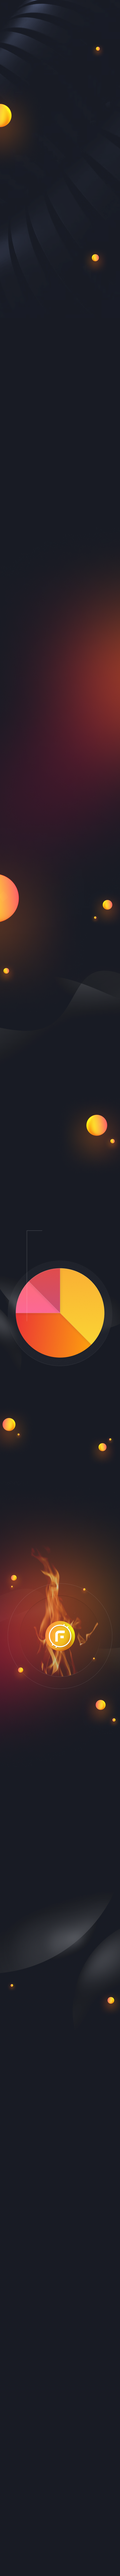
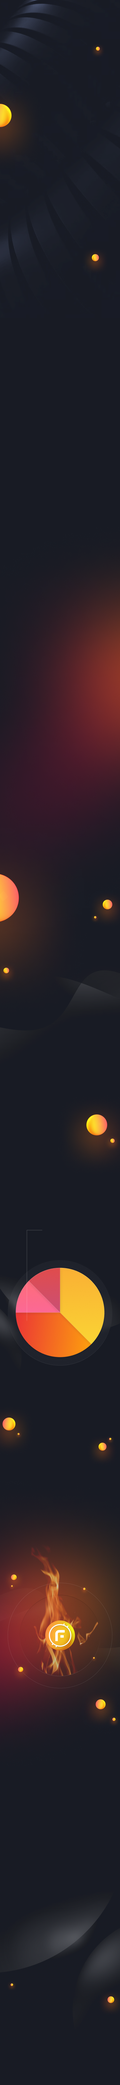
tokenomicsSmartphone

diff --git a/src/pages/tokenomicsSmart.js b/src/pages/tokenomicsSmart.js
@@ -16,52 +16,55 @@ import Back from "../images/tokenomics/tokenomicsSmartBG.png";
 
 const Section = styled.div`
     width: 100vw;
-    height: 8750px;
+    height: 6900px;
     display: flex;
     flex-direction: column;
     align-items: center;
     background: url(${Back});
-    background-size: contain;
+    background-size: cover;
     background-repeat: no-repeat;
     background-position: top center;
 `;
 
+const Wrapper = styled.div`
+    width: 100%;
+    height: 600px;
+    border: 1px solid white;
+    display: flex;
+    flex-direction: column;
+    align-items: center;
+`;
+
 const Empty = styled.div`
     width: 100%;
-    height: 10vh;
+    height: 100px;
 `;
 
 const Text = styled.div`
     width: 90%;
-    height: 20vh;
+    height: 100px;
     display: flex;
     align-items: center;
-    line-height: 70px;
-    h1{
-        font-size: 58px;
-        color: white;
-        font-weight: 500;
-    }
+    font-size: 52px;
+    color: white;
+    font-weight: 500;
 `;
 
 const Desc = styled.div`
-    width: 70%;
-    height: 30vh;
+    width: 80%;
+    height: 150px;
     display: flex;
     align-items: center;
     justify-content: center;
-    h1{
-        color: white;
-        font-size: 20px;
-        line-height: 30px;
-        font-weight: 300;
-        transform: translate(5%, 0);
-    }
+    color: white;
+    font-size: 18px;
+    line-height: 25px;
+    font-weight: 300;
 `;
 
 const Buttons = styled.div`
     width: 80%;
-    height: 30vh;
+    height: 225px;
     display: flex;
     flex-direction: column;
     align-items: center;
@@ -89,14 +92,16 @@ const TokenomicsSmart = () => {
     return(
         <Section>
             <TokenomicsSmartNavBar />
+            <Wrapper>
             <Empty />
-            <Text><h1>FORT'nomics</h1></Text>
-            <Desc><h1>Amet a volutpat donec nisl, in turpis ridiculus tristique. Sed magna massa, cum scelerisque. Dolor sit abetus achtum dolastro umago dobak lumbro sol abestro.</h1></Desc>
+            <Text>FORT'nomics</Text>
+            <Desc>Amet a volutpat donec nisl, in turpis ridiculus tristique. Sed magna massa, cum scelerisque. Dolor sit abetus achtum dolastro umago dobak lumbro sol abestro.</Desc>
             <Buttons>
                 <TopButtonSmart>JOIN THE MOVEMENT</TopButtonSmart>
                 <BottomButtonSmart>ACQUIRE FORT</BottomButtonSmart>
                 <BottomButtonSmart>LEARN MORE</BottomButtonSmart>
             </Buttons>
+            </Wrapper>
             <SecondEmpty />
             <SmartPowered />
             <SmartUtility />

diff --git a/src/components/NavBar/AboutSmartNavBar.js b/src/components/NavBar/AboutSmartNavBar.js
@@ -55,7 +55,7 @@ const Fortis = styled.h1`
 
 const DropDown = styled(motion.div)`
     position: absolute;
-    height: 70vh;
+    height: 80vh;
     width: 100%;
     top: 0;
     background: rgba(24, 27, 36, 0.72);

diff --git a/src/components/NavBar/RoadmapSmartNavBar.js b/src/components/NavBar/RoadmapSmartNavBar.js
@@ -55,7 +55,7 @@ const Fortis = styled.h1`
 
 const DropDown = styled(motion.div)`
     position: absolute;
-    height: 70vh;
+    height: 80vh;
     width: 100%;
     top: 0;
     background: rgba(24, 27, 36, 0.72);

diff --git a/src/components/NavBar/TokenomicsSmartNavBar.js b/src/components/NavBar/TokenomicsSmartNavBar.js
@@ -55,7 +55,7 @@ const Fortis = styled.h1`
 
 const DropDown = styled(motion.div)`
     position: absolute;
-    height: 70vh;
+    height: 80vh;
     width: 100%;
     top: 0;
     background: rgba(24, 27, 36, 0.72);
